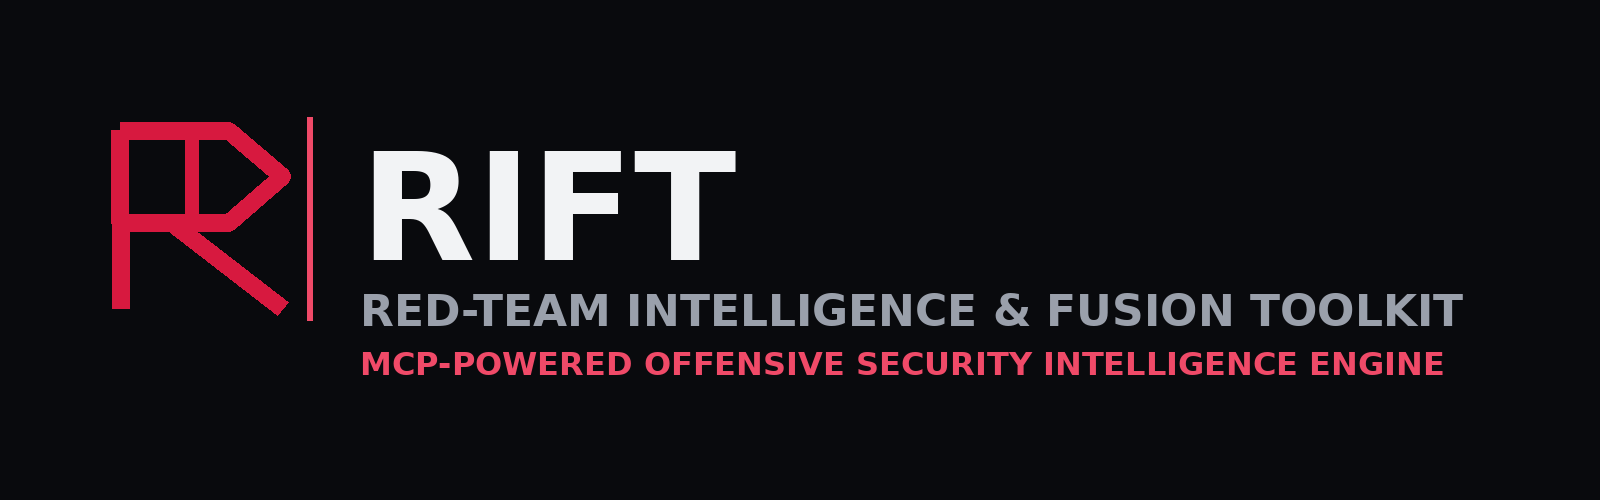
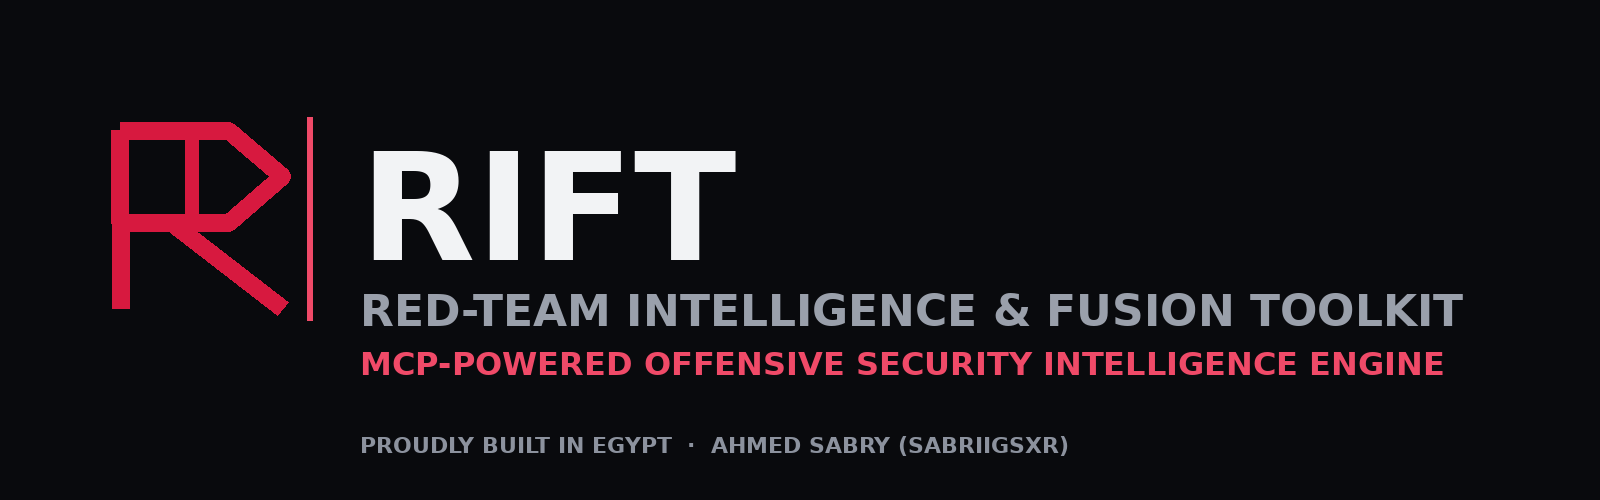
Brand RIFT as Egyptian-built; credit developer
- README: Made-in-Egypt badge row, developer section (Ahmed Sabry — Cyber
  Security Researcher), GitHub link
- WARNING.txt, CHANGELOG.md, pyproject.toml (keywords + project.urls): credit
- assets: banner and social-preview now carry the provenance line
  'PROUDLY BUILT IN EGYPT · AHMED SABRY (SABRIIGSXR)'

Changed region(s): [[0.2188, 0.87, 0.6875, 0.93]]

diff --git a/README.md b/README.md
@@ -6,6 +6,11 @@
 retrieval, FAISS, and RAG.**
 
 [![CI](https://github.com/Sabriigsxr/RIFT/actions/workflows/ci.yml/badge.svg)](https://github.com/Sabriigsxr/RIFT/actions/workflows/ci.yml)
+[![Made in Egypt](https://img.shields.io/badge/Made%20in-Egypt%20🇪🇬-d7193f)](https://github.com/Sabriigsxr/RIFT)
+[![Developer](https://img.shields.io/badge/Developer-Ahmed%20Sabry-090a0d?logo=github&logoColor=white)](https://github.com/Sabriigsxr/RIFT)
+
+🇪🇬 **Proudly built in Egypt** by **Ahmed Sabry ([Sabriigsxr](https://github.com/Sabriigsxr))**,
+Cyber Security Researcher.
 
 RIFT is a local-first Model Context Protocol (MCP) server for authorized
 penetration testing, detection engineering, DFIR, cybersecurity education,
@@ -194,6 +199,15 @@ Migration and release preparation details are in
 - Broader integrity and compatibility coverage across MCP SDK major versions.
 - Optional retrieval evaluation sets for recall and ranking regression checks.
 - Maintainer-reviewed dataset governance and contribution workflow.
+
+## Made in Egypt — Developer
+
+**Ahmed Sabry ([Sabriigsxr](https://github.com/Sabriigsxr))** — Cyber Security Researcher
+
+RIFT is an Egyptian-built open-source security research tool, made with 🇪🇬 for the
+authorized offensive-security and detection-engineering community. Every retrieval,
+document, and test in this toolkit was engineered locally to demonstrate that world-class
+security tooling can come from Egypt.
 
 ## Status, license, and acknowledgments
 

diff --git a/CHANGELOG.md b/CHANGELOG.md
@@ -11,5 +11,6 @@
 - Added documentation, security policy, contribution guidance, CI, tests, and
   migration notes.
 - Hardened archive restoration against traversal entries and partial writes.
+- Added Egyptian-built branding and developer attribution (Ahmed Sabry — Cyber Security Researcher), including shields.io provenance badges and credits in README and WARNING.txt.
 
 No release has been published.
